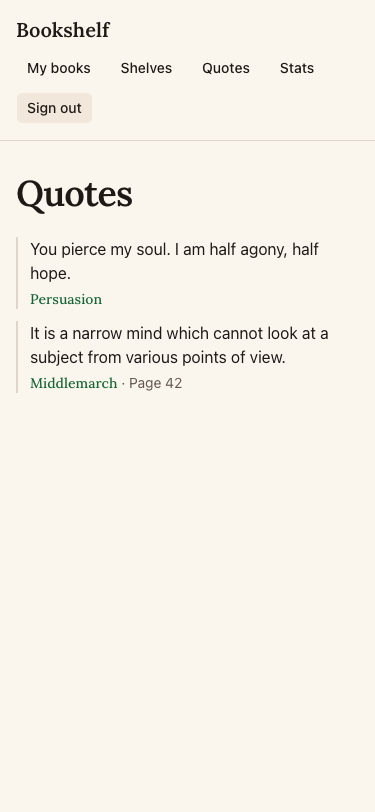
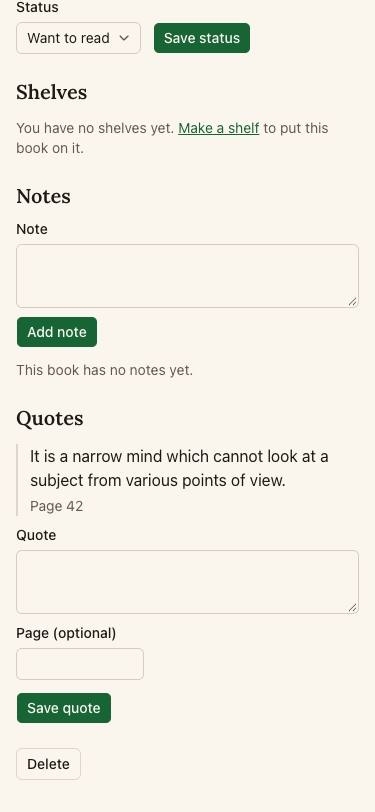
refactor(F048): share the quote row between /quotes and the book page as QuoteItem

diff --git a/app/quotes/page.tsx b/app/quotes/page.tsx
@@ -1,5 +1,6 @@
 import type { Metadata } from "next";
 import Link from "next/link";
+import { QuoteItem } from "@/components/quote-item";
 import { listQuotes } from "@/lib/quotes";
 import { createClient, requireUser } from "@/lib/supabase/server";
 
@@ -16,15 +17,18 @@ export default async function QuotesPage() {
       ) : (
         <ul aria-label="My quotes" className="flex flex-col gap-3">
           {quotes.map((quote) => (
-            <li key={quote.id} className="flex flex-col gap-1 border-l-2 border-border pl-3">
-              <blockquote className="whitespace-pre-wrap break-words">{quote.body}</blockquote>
-              <p className="text-sm text-muted-foreground">
-                <Link href={`/books/${quote.book.id}`} className="font-heading font-medium text-primary underline-offset-4 hover:underline">
-                  {quote.book.title}
-                </Link>
-                {quote.page !== null && <> · Page {quote.page}</>}
-              </p>
-            </li>
+            <QuoteItem
+              key={quote.id}
+              body={quote.body}
+              meta={
+                <>
+                  <Link href={`/books/${quote.book.id}`} className="font-heading font-medium text-primary underline-offset-4 hover:underline">
+                    {quote.book.title}
+                  </Link>
+                  {quote.page !== null && <> · Page {quote.page}</>}
+                </>
+              }
+            />
           ))}
         </ul>
       )}

diff --git a/components/book-quotes.tsx b/components/book-quotes.tsx
@@ -1,4 +1,5 @@
 import { QuoteForm } from "@/components/quote-form";
+import { QuoteItem } from "@/components/quote-item";
 import type { BookQuote, QuoteFormState } from "@/lib/quotes";
 
 type Props = {
@@ -15,10 +16,7 @@ export function BookQuotes({ quotes, action }: Props) {
       ) : (
         <ul aria-label="Quotes from this book" className="flex flex-col gap-3">
           {quotes.map((quote) => (
-            <li key={quote.id} className="flex flex-col gap-1 border-l-2 border-border pl-3">
-              <blockquote className="whitespace-pre-wrap break-words">{quote.body}</blockquote>
-              {quote.page !== null && <p className="text-sm text-muted-foreground">Page {quote.page}</p>}
-            </li>
+            <QuoteItem key={quote.id} body={quote.body} meta={quote.page !== null && <>Page {quote.page}</>} />
           ))}
         </ul>
       )}

diff --git a/components/quote-item.tsx b/components/quote-item.tsx
@@ -1,0 +1,15 @@
+import type { ReactNode } from "react";
+
+type Props = {
+  body: string;
+  meta?: ReactNode;
+};
+
+export function QuoteItem({ body, meta }: Props) {
+  return (
+    <li className="flex flex-col gap-1 border-l-2 border-border pl-3">
+      <blockquote className="whitespace-pre-wrap break-words">{body}</blockquote>
+      {meta && <p className="text-sm text-muted-foreground">{meta}</p>}
+    </li>
+  );
+}

diff --git a/harness/evidence/F048.md b/harness/evidence/F048.md
@@ -1,25 +1,29 @@
 <!-- written by harness/hooks/verifier-evidence.py; do not edit -->
-- Verified at: 2026-11-07T02:45:35 on 42827b6 plus working tree
-- Verifier run: a19558bd65fb37b1c
+- Verified at: 2026-11-07T03:11:22 on a76f210 plus working tree
+- Verifier run: a3533f2f45c221d39
 
 VERDICT: PASS
 FEATURE: F048
 CRITERIA:
-- CRITERION 1: PASS — I signed up a new account (qa-f048-1793994168031@example.com). The header showed My books, Shelves, Quotes and Stats, and clicking Quotes took me to /quotes, which said only "You have no quotes yet."
-- CRITERION 2: PASS — I added Middlemarch (George Eliot) and Persuasion (Jane Austen) through /books/new, saved a quote on page 42 from Middlemarch's page, then saved a quote with no page from Persuasion's page; both showed up in each book's quote list.
-- CRITERION 3: PASS — /quotes listed both quotes with Persuasion's first; each showed its text and book title link, and only Middlemarch's showed "· Page 42".
-- CRITERION 4: PASS — Clicking "Middlemarch" in the list opened /books/ca70f16f-6a15-42d6-ada4-e97cf7cdbf16, the Middlemarch book page.
+- CRITERION 1: PASS — I signed up a fresh account (qa-f048-1793995738651@example.com). The header showed a "Quotes" link to /quotes, and clicking it took me to /quotes, where the main content read "Quotes / You have no quotes yet."
+- CRITERION 2: PASS — I added Middlemarch and Persuasion through /books/new. On Middlemarch I saved a quote with page 42, and its book page then listed the quote with a "Page 42" line. On Persuasion I saved a quote with no page, and its book page listed the quote with no page line at all, not even an empty one.
+- CRITERION 3: PASS — /quotes listed 2 items in the "My quotes" list. The Persuasion quote came first, showing its text and the title "Persuasion" with no page. The Middlemarch quote came second, showing its text and "Middlemarch · Page 42".
+- CRITERION 4: PASS — Clicking the "Middlemarch" link next to its quote on /quotes took me to /books/19a7d760-9a99-437e-9c0a-93749164e50d, whose h1 is "Middlemarch".
 EVIDENCE:
-- Step 1: After sign-up I landed on /books with the Quotes link in the header; clicking it opened http://localhost:43161/quotes, which read "Quotes / You have no quotes yet." (/Users/huynguyen/Desktop/harness-web-trial-loop/F048/harness/evidence/F048/step-01.png)
-- Step 2: Middlemarch's book page showed the quote with "Page 42", and Persuasion's book page (/books/557159ee-...) showed "You pierce my soul. I am half agony, half hope." with no page (/Users/huynguyen/Desktop/harness-web-trial-loop/F048/harness/evidence/F048/step-02.png)
-- Step 3: The page has a list named "My quotes". Item 1 is the Persuasion quote with a "Persuasion" link and no page; item 2 is the Middlemarch quote with a "Middlemarch" link and "· Page 42". The new styling is in place: the title link renders in Lora (font-heading) in the green primary color, and the gap between list items is visible (/Users/huynguyen/Desktop/harness-web-trial-loop/F048/harness/evidence/F048/step-03.png)
-- Step 4: Clicking Middlemarch opened /books/ca70f16f-6a15-42d6-ada4-e97cf7cdbf16 with the Middlemarch heading (/Users/huynguyen/Desktop/harness-web-trial-loop/F048/harness/evidence/F048/step-04.png)
-- Mobile 375x812: The header wraps and the quote text wraps cleanly. The page scroll width is 375, so there is no horizontal overflow. Titles and page numbers are readable (/Users/huynguyen/Desktop/harness-web-trial-loop/F048/harness/evidence/F048/step-04-mobile.png)
+- Step 1: The header nav has My books, Shelves, Quotes, Stats and Sign out. /quotes shows the empty-state sentence "You have no quotes yet." (/Users/huynguyen/Desktop/harness-web-trial-loop/F048/harness/evidence/F048/step-01.png)
+- Step 2: Both books were created. Book pages after saving:
+  - Middlemarch's "Quotes from this book" list reads "It is a narrow mind ... points of view. / Page 42".
+  - Persuasion's list holds just `<li><blockquote>She had been forced ...</blockquote></li>`.
+  (/Users/huynguyen/Desktop/harness-web-trial-loop/F048/harness/evidence/F048/step-02.png for Persuasion; I also took /Users/huynguyen/Desktop/harness-web-trial-loop/F048/harness/evidence/F048/step-02-book-page.png for Middlemarch, which shows the quote and "Page 42" on the book page.)
+- Step 3: The /quotes item texts were ["She had been forced ... grew older.\n\nPersuasion", "It is a narrow mind ... points of view.\n\nMiddlemarch · Page 42"]. Each link points at its own book id. (/Users/huynguyen/Desktop/harness-web-trial-loop/F048/harness/evidence/F048/step-03.png)
+- Step 4: After the click, the URL matched /books/<uuid> and the h1 was "Middlemarch". (/Users/huynguyen/Desktop/harness-web-trial-loop/F048/harness/evidence/F048/step-04.png)
+- Mobile 375x812: the Middlemarch book page, including its quotes list. (/Users/huynguyen/Desktop/harness-web-trial-loop/F048/harness/evidence/F048/step-04-mobile.png) The viewport was resized back to 1280x720 afterwards.
+- Shared component change (components/quote-item.tsx): both pages render the same `<li class="flex flex-col gap-1 border-l-2 border-border pl-3"><blockquote ...>` markup.
+  - When a quote has no page, the book page renders no `<p>` and no stray "false" text.
+  - On the book page, a quote with a page still shows its "Page N" line.
 - Edge cases:
-  - Pressing Back from the book page returned to /quotes, and both back and reload kept the same order and content.
-  - Opening /quotes while signed out (curl) gets a 307 redirect to /sign-in.
-- Errors: the browser console had 0 errors and 0 warnings for the whole flow, and the init.sh server log showed no errors.
-- Test coverage: /Users/huynguyen/Desktop/harness-web-trial-loop/F048/e2e/quotes-page.spec.ts covers all four criteria, plus an accessibility check and a full-page screenshot baseline. I ran it against port 43161 and it passed (1 test, 30.8s), including the updated baseline F048-quotes.png. There is also a unit test at /Users/huynguyen/Desktop/harness-web-trial-loop/F048/lib/quotes.test.ts.
+  - Submitting an empty quote on the book page showed "Quote is required" and saved nothing.
+  - Pressing Back from the book page returned to /quotes with 2 items, and a reload still showed 2 items.
+- Errors: the browser console had 0 errors and 0 warnings. The server log showed nothing beyond the expected server-action trace for the empty-quote validation.
+- Test coverage: /Users/huynguyen/Desktop/harness-web-trial-loop/F048/e2e/quotes-page.spec.ts covers the whole flow: the header link, the empty state, the order, the page/no-page lines and the link through to the book. /Users/huynguyen/Desktop/harness-web-trial-loop/F048/e2e/book-quotes.spec.ts covers the book page. I did not run these specs myself.
 PROBLEMS:
-- None blocking. One small mobile point for the designer: the book title link is only about 18px tall (72x18 on a 375px viewport), which makes it a small tap target.
-- Housekeeping: the working tree has uncommitted changes to app/quotes/page.tsx and e2e/__screenshots__/quotes-page.spec.ts/F048-quotes.png, and the evidence screenshots under harness/evidence/F048/ were replaced by this run.

diff --git a/harness/log/F048.md b/harness/log/F048.md
@@ -1,5 +1,10 @@
 # F048 log
 
+## 2026-11-07 04:10 · passing
+- Did: moved the quote row (bordered `li` + `blockquote` + muted meta line) into `components/quote-item.tsx`; `/quotes` and `components/book-quotes.tsx` both render `QuoteItem`. No visual change.
+- Verified by: `./scripts/check.sh` green (48 e2e; one earlier run had 5 timeouts at load average ~90, all passed when re-run serially); verifier PASS on all 4 criteria, including the book page's "Page N" line.
+- Next session should know: `QuoteItem` takes `body` and an optional `meta` node; F049 should reuse it.
+
 ## 2026-11-07 03:30 · passing
 - Did: fixed review findings in `app/quotes/page.tsx`: the book title link is now `font-heading text-primary` with hover underline, and the list uses `gap-3`. Regenerated baseline F048-quotes.png.
 - Verified by: `./scripts/check.sh` green (48 e2e; two earlier runs had one unrelated flaky timeout each); verifier PASS on all 4 criteria.
